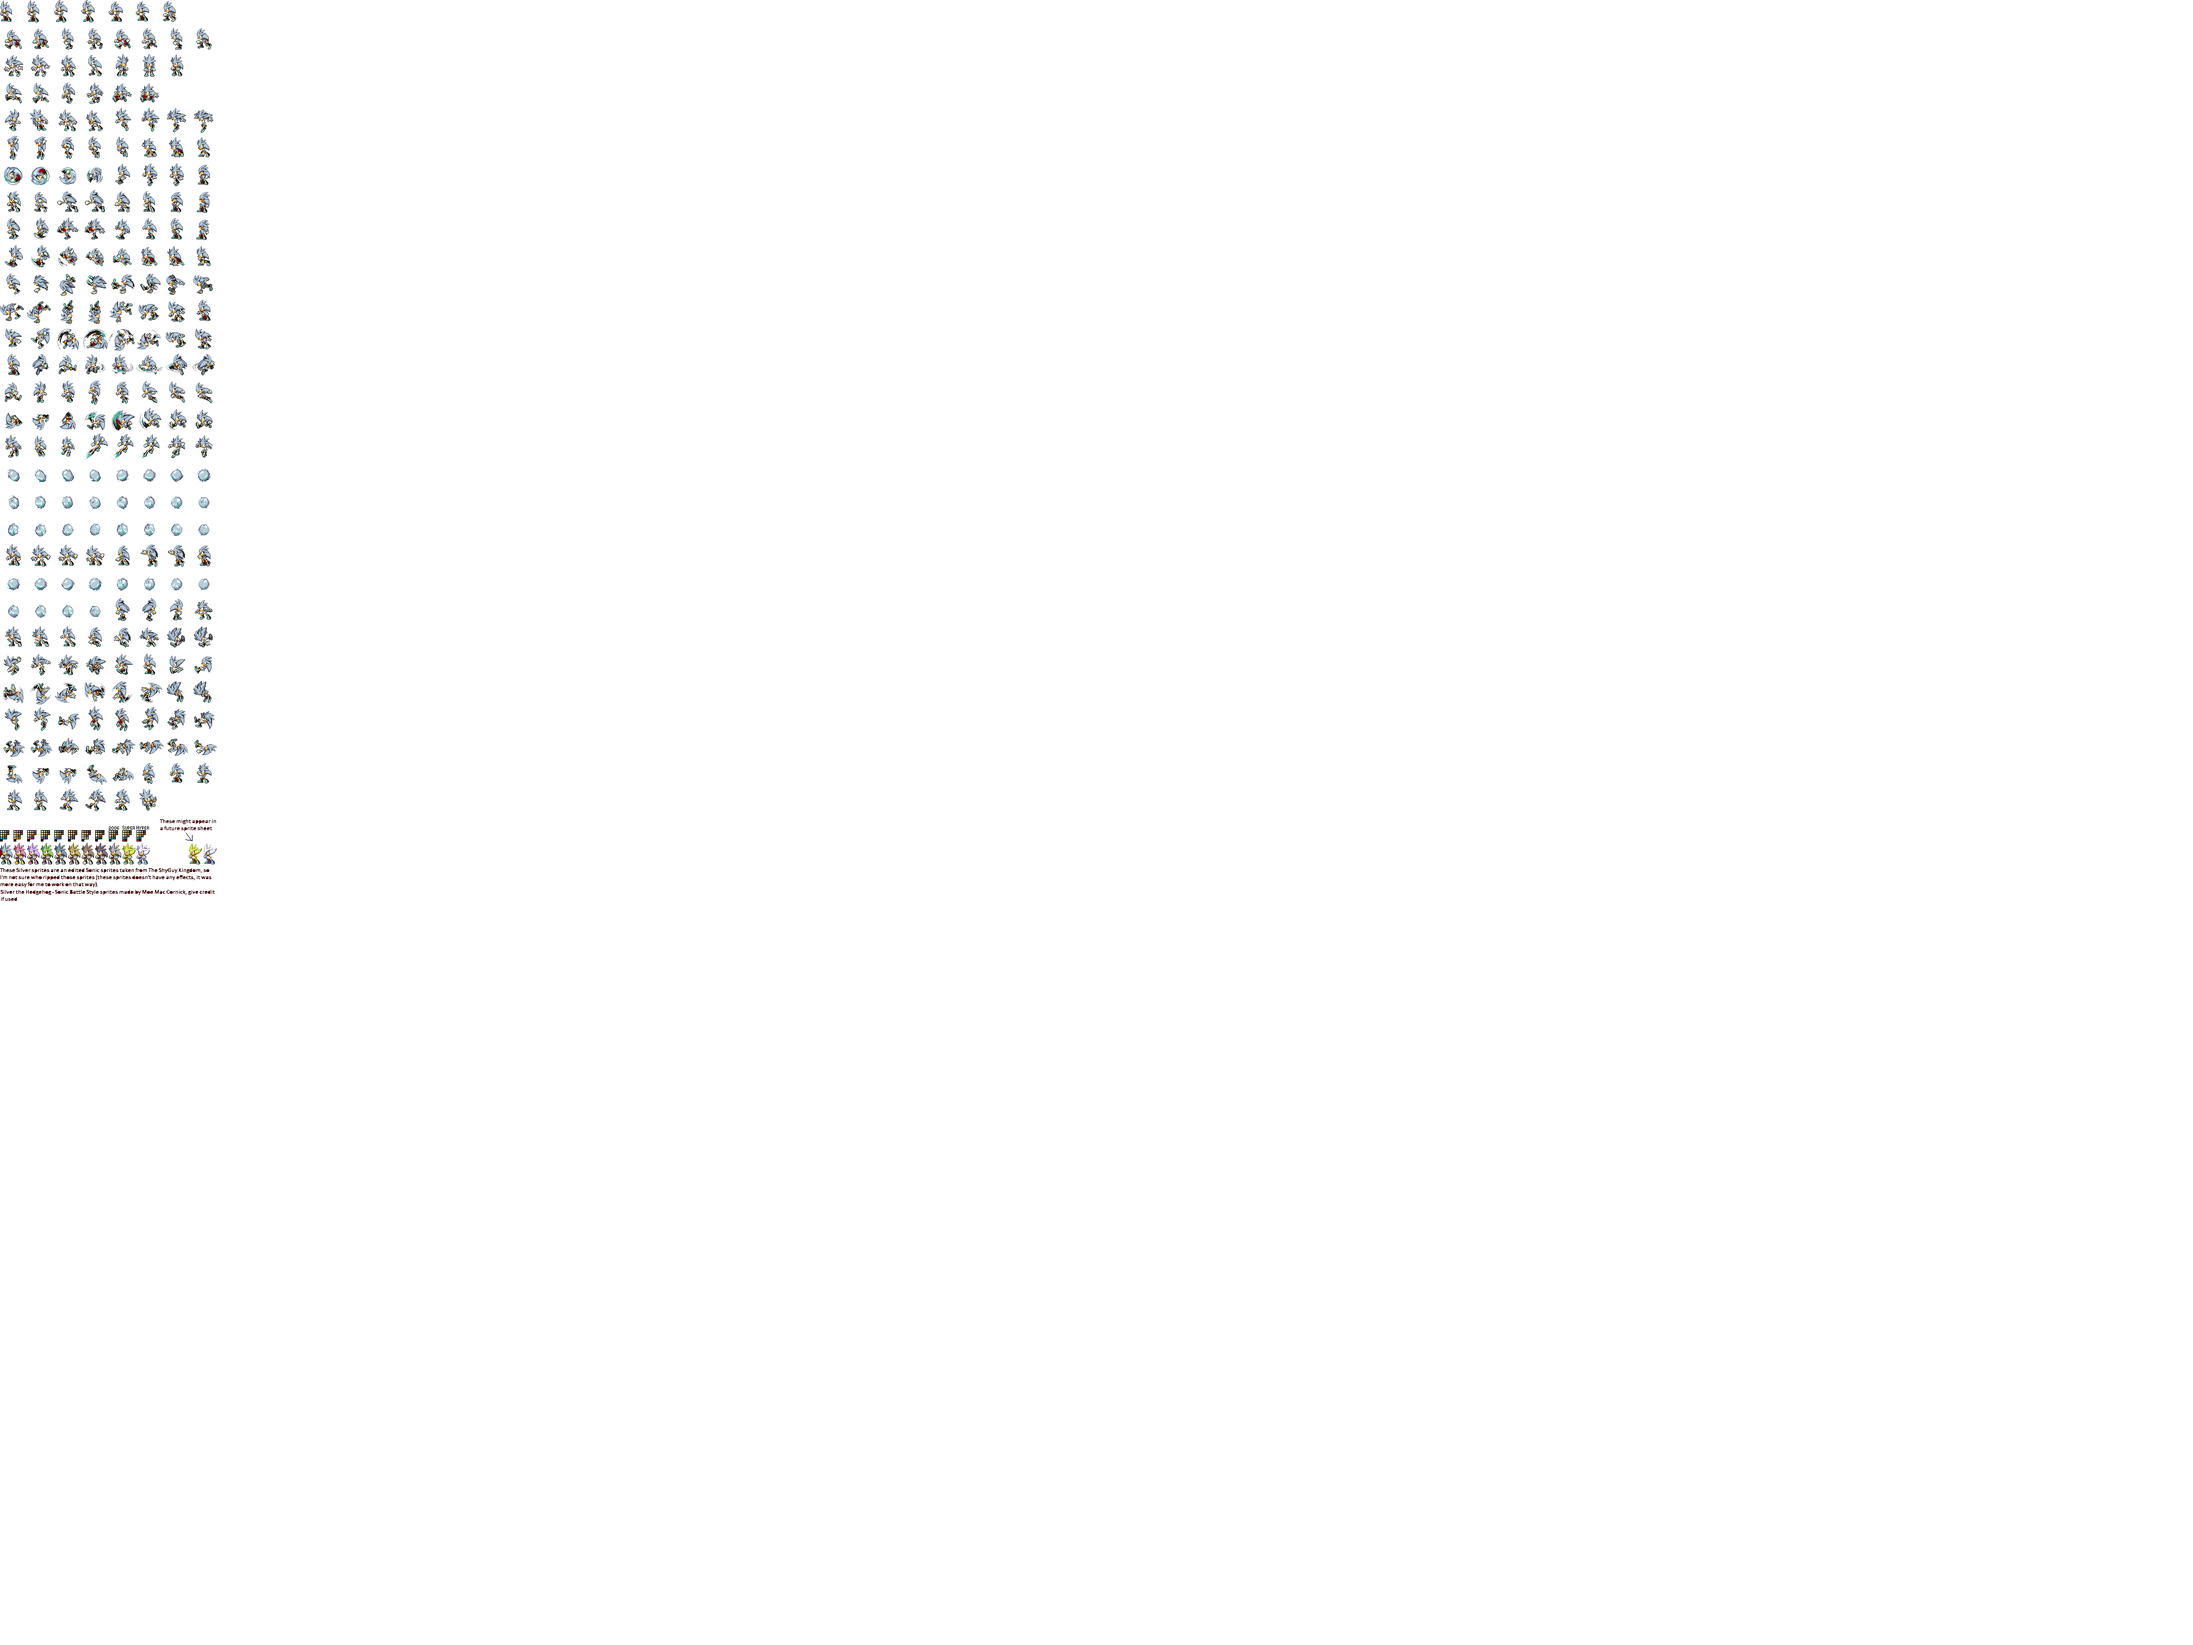
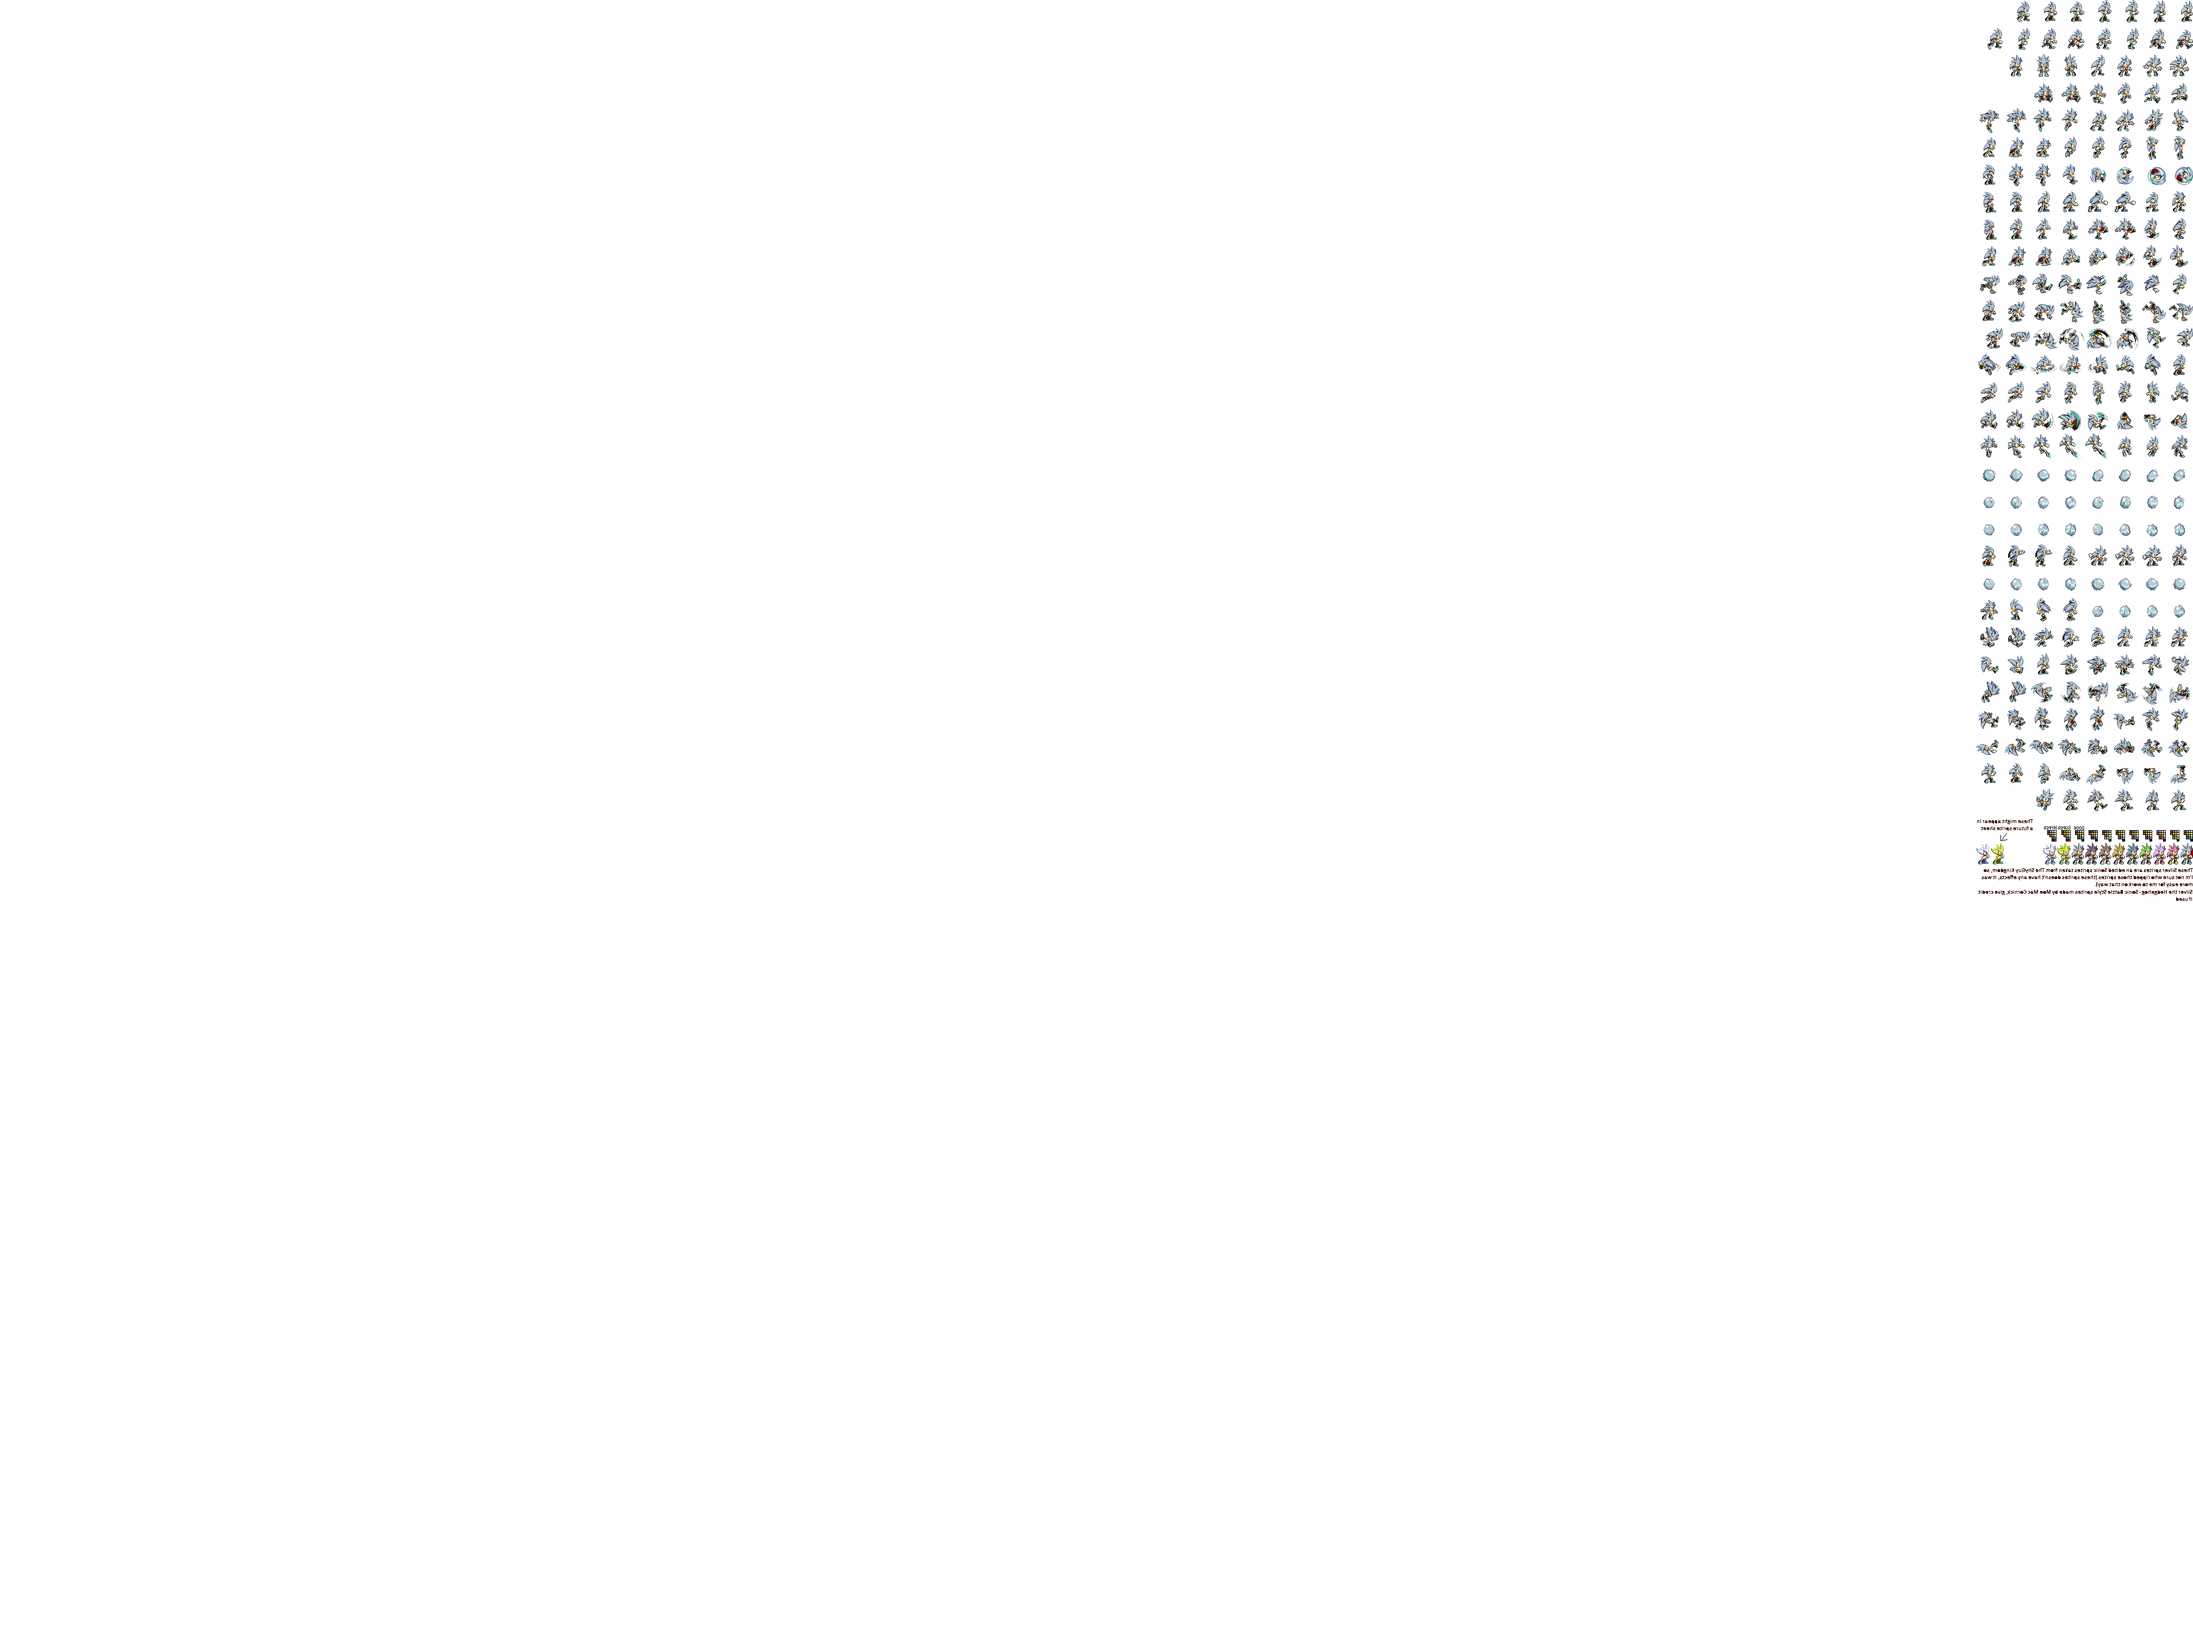
캐릭터 스프라이트 일부 조정
캐릭터 스프라이트 일부 조정

Changed region(s): [[0.9062, 0.0, 1.0, 0.5595], [0.0, 0.0, 0.0938, 0.5595]]

diff --git a/character.py b/character.py
@@ -588,7 +588,7 @@ class Sonic(Character):
 
         self.idle_size = int(self.idle_frame) * 30 + 7
         self.move_size = int(self.move_frame) * 40 + 10
-        self.jump_size = int(self.jump_frame) * 45 + 245
+        self.jump_size = int(self.jump_frame) * 40 + 245
         self.attack_size = int(self.attack_frame) * 45
 
     def draw(self):
@@ -766,22 +766,22 @@ class Tikal(Character):
             self.icon_image = load_image("map/icons.png")
         self.index = 4
 
-        self.FRAMES_PER_ACTION = [6, 8, 6, 8]
+        self.FRAMES_PER_ACTION = [6, 8, 6, 3]
         self.TIMER_PER_ACTION = [1, 1, 0.5, 0.5]
 
-        self.idle_type = [0, 2700, 38, 40, 38, 40]
-        self.move_type = [0, 2640, 40, 40, 40, 40]
-        self.jump_type = [0, 2570, 38, 43, 38, 43]
-        self.attack_type = [0, 2570, 38, 43, 38, 43]
+        self.idle_type = [0, 2714, 35, 40, 32, 37]
+        self.move_type = [0, 2650, 45, 40, 45, 40]
+        self.jump_type = [0, 2584, 40, 43, 40, 43]
+        self.attack_type = [0, 2454, 38, 40, 40, 40]
 
     def update(self):
         super(Tikal, self).update()
         self.cur_state.do(self)
 
-        self.idle_size = int(self.idle_frame) * 36 + 5
-        self.move_size = int(self.move_frame) * 41 + 5
-        self.jump_size = int(self.jump_frame) * 39 + 5
-        self.attack_size = int(self.attack_frame) * 51 + 2
+        self.idle_size = int(self.idle_frame) * 40
+        self.move_size = int(self.move_frame) * 45
+        self.jump_size = int(self.jump_frame) * 40
+        self.attack_size = int(self.attack_frame) * 40
 
     def draw(self):
         self.cur_state.draw(self)
@@ -912,22 +912,22 @@ class Silver(Character):
             self.icon_image = load_image("map/icons.png")
         self.index = 7
 
-        self.FRAMES_PER_ACTION = [7, 7, 7, 7]
+        self.FRAMES_PER_ACTION = [7, 8, 2, 8]
         self.TIMER_PER_ACTION = [1, 1, 0.5, 0.5]
 
         self.idle_type = [0, 2984, 40, 40, 40, 40]
-        self.move_type = [0, 2864, 42, 40, 42, 40]
-        self.jump_type = [0, 2720, 38, 40, 38, 40]
-        self.attack_type = [0, 2720, 38, 40, 38, 40]
+        self.move_type = [0, 2934, 45, 40, 45, 40]
+        self.jump_type = [0, 2684, 45, 40, 45, 40]
+        self.attack_type = [0, 2380, 45, 40, 45, 40]
 
     def update(self):
         super(Silver, self).update()
         self.cur_state.do(self)
 
-        self.idle_size = int(self.idle_frame) * 50
-        self.move_size = int(self.move_frame) * 41 + 6
-        self.jump_size = int(self.jump_frame) * 35 + 620
-        self.attack_size = int(self.attack_frame) * 35 + 620
+        self.idle_size = 4032 - 50 - int(self.idle_frame) * 50
+        self.move_size = 4032 - 50 - int(self.move_frame) * 50
+        self.jump_size = 4032 - 50 - int(self.jump_frame) * 50
+        self.attack_size = 4032 - 50 - int(self.attack_frame) * 50
 
     def draw(self):
         self.cur_state.draw(self)

diff --git a/main_state.py b/main_state.py
@@ -152,7 +152,7 @@ def update():
         in_character.x = clamp(server.stage.w // 2 - 400, in_character.x, server.stage.w // 2 + 400)
 
         in_character.damage = 4
-        if 0 <= stage_time % 3 <= 1:
+        if 0 <= stage_time % 3 <= in_character.TIMER_PER_ACTION[3]:
             in_character.cur_state = character.COMATTACK
             if collide(in_character, server.player_character):
                 if server.player_character.hit == False:
